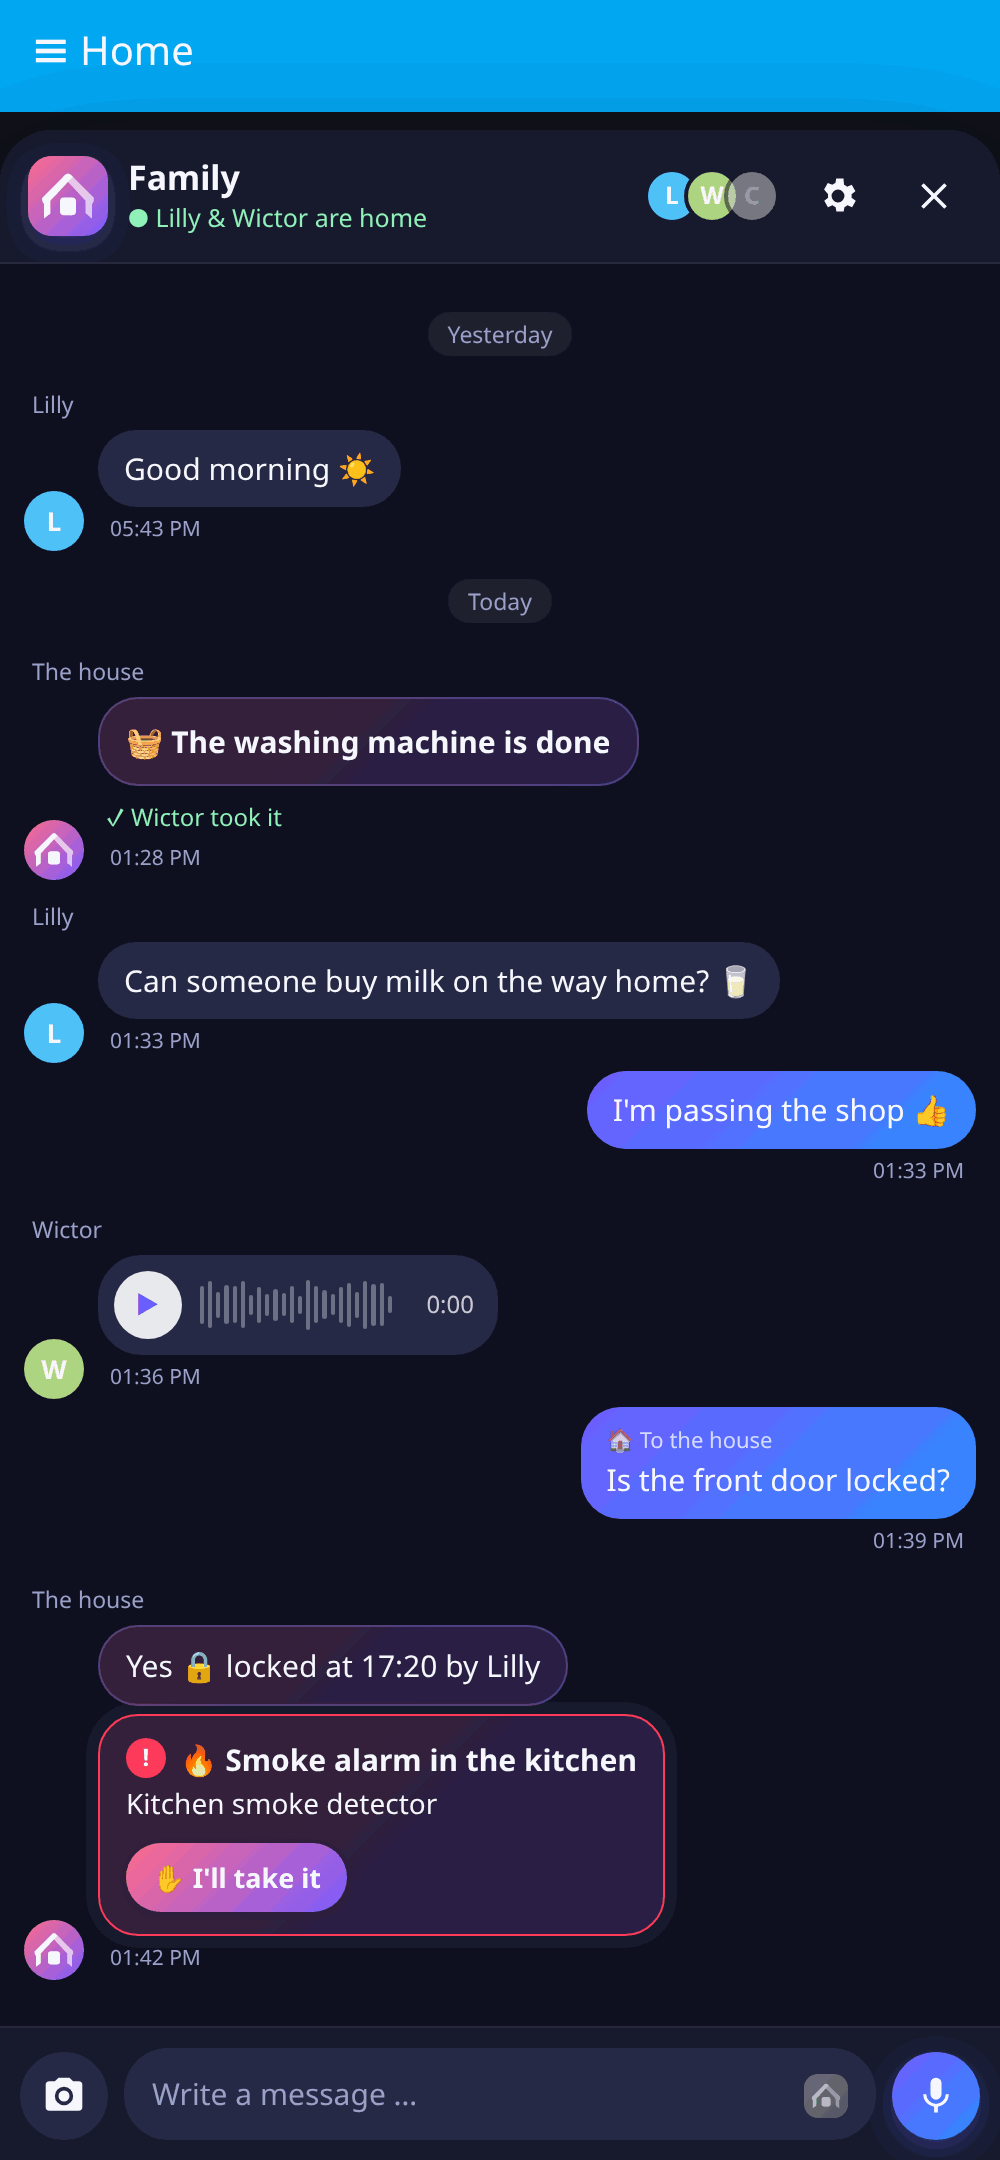
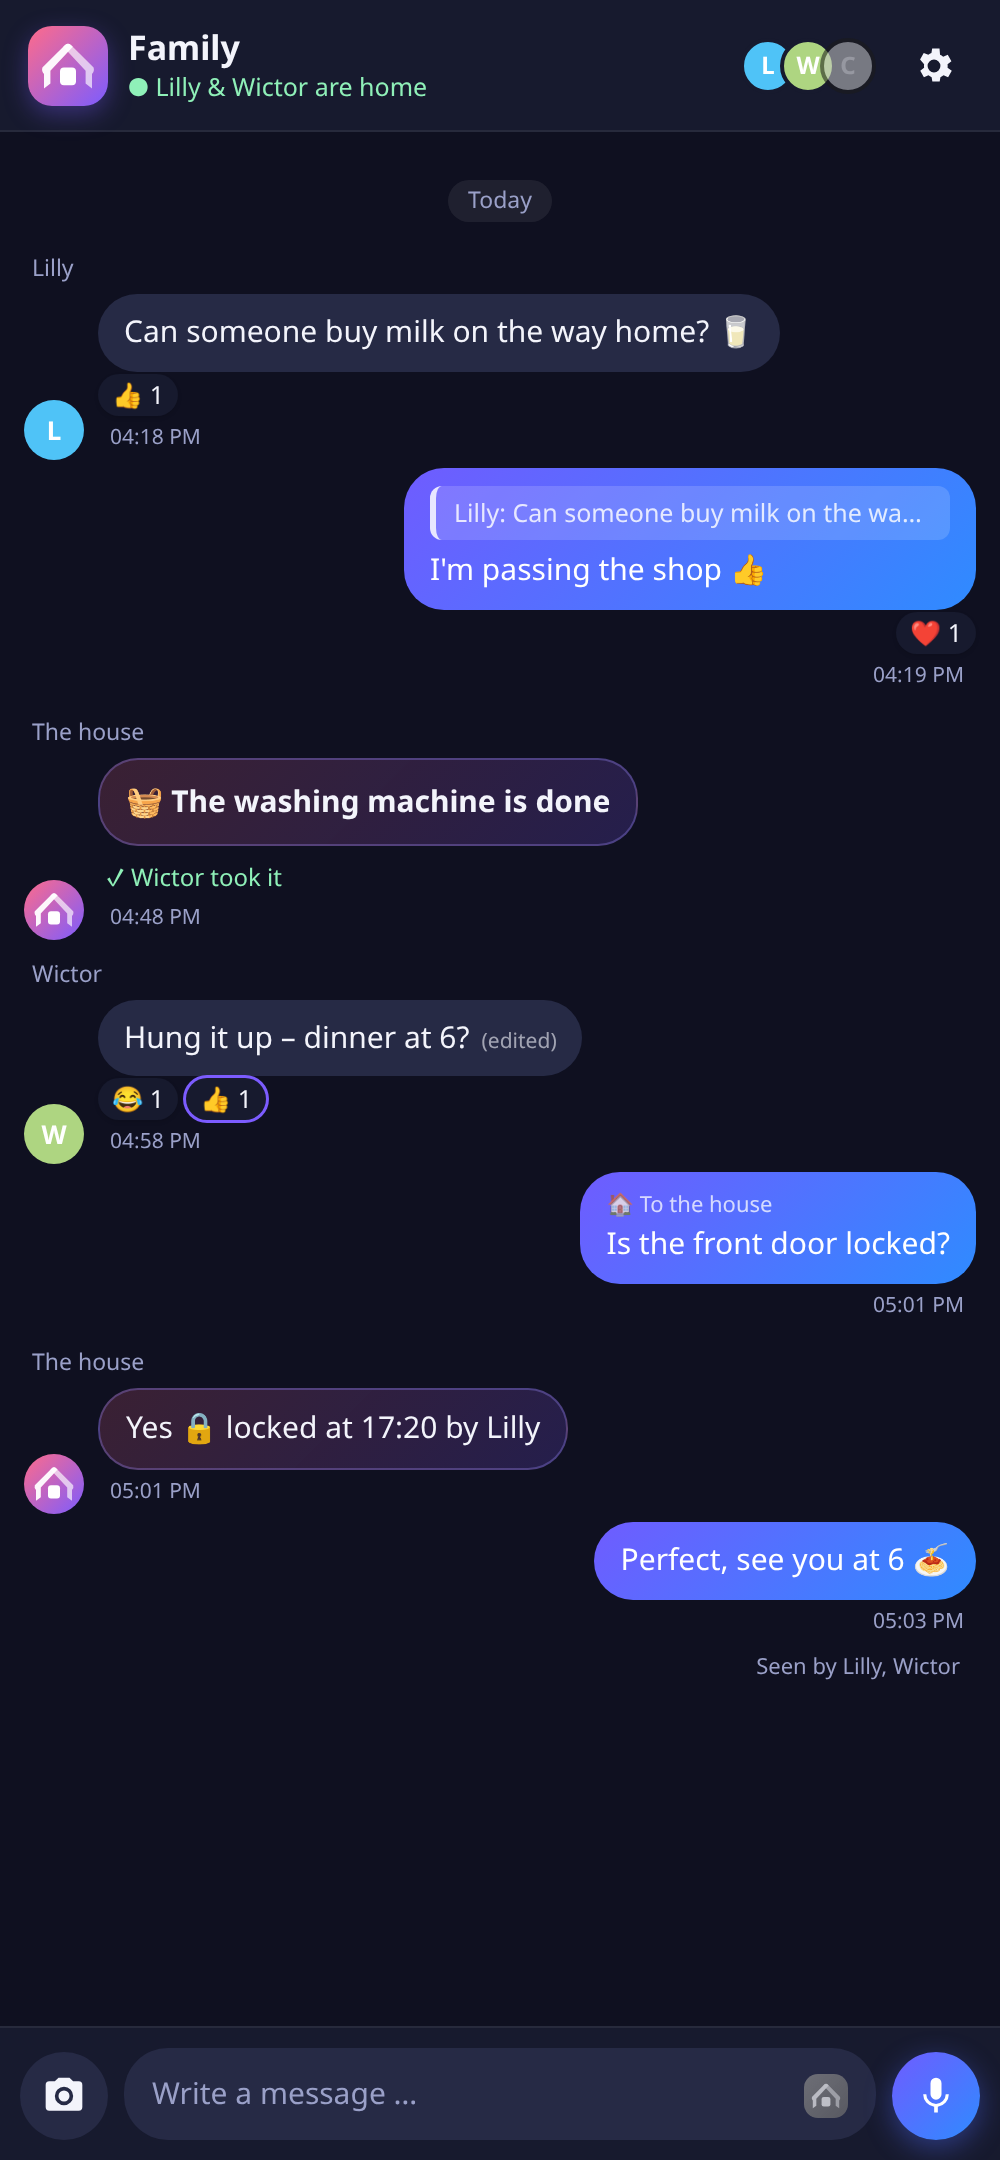
README: new features and pictures

diff --git a/README.md b/README.md
@@ -6,15 +6,17 @@
 
 ![House Chat](docs/showcase.png)
 
-<p align="center"><img src="docs/chat_light.png" width="250" alt="The chat"> <img src="docs/chat_dark.png" width="250" alt="Dark theme"> <img src="docs/settings.png" width="250" alt="Who gets what"></p>
+<p align="center"><img src="docs/chat_light.png" width="250" alt="The chat"> <img src="docs/chat_dark.png" width="250" alt="Dark theme"> <img src="docs/settings.png" width="250" alt="Who gets what"> <img src="docs/actions.png" width="250" alt="React, reply, edit, delete"></p>
 
 ## English
 
 - **A chat bubble on every page of Home Assistant**, like Messenger. A red number for new messages, and a little preview when someone writes. Drag it onto ✕ and it tucks away as a small tab at the edge – tap the tab, or it comes back by itself when somebody writes.
 - **Write with each other**: text, pictures and voice messages (use the keyboard's microphone to dictate). Everyone sees who wrote what.
+- **Tap a message** to react (👍 ❤ 😂 😮 😢 🙏), reply with a quote, edit your own (marked *edited*) or delete it. Under your last message you see who has **seen** it.
+- **Private where it should be**: a message to some of you is only seen by them, and a question to the house with its answer only by whoever asked. An account without a person or the app (a wall tablet) sees no messages. An admin can delete any message, or clear the whole chat under ⚙.
 - **Ask or control the house**: tap the house in the message field and write "Is the front door locked?" or "Turn off the lights in the living room" – the house answers in the chat.
 - **Or just say it**: with *To the house* on, the microphone works like a voice command – it listens, sends by itself when you stop talking, and the house answers. Nothing is sent if nobody spoke.
-- **When the app is closed** the message comes as a notification you can answer right in, or press *I'll take it*.
+- **When the app is closed** the message comes as a notification you can answer right in, or press *I'll take it*. Read it anywhere and it's gone from your phones too – and with the chat open you get no notification (urgent alarms still come).
 - **Quiet hours** per person – only urgent messages come through.
 - **Nothing to set up**: everyone with the Home Assistant app on their phone is in it – also without a person. Who is home comes from the persons.
 
@@ -74,9 +76,11 @@ Settings (⚙ in the chat) → **🛟 Help** to write what's wrong and attach
 
 - **En chat-boble på alle sider i Home Assistant**, ligesom Messenger. Et rødt tal for nye beskeder og en lille forsmag, når nogen skriver. Træk den ned på ✕, så gemmer den sig som en lille fane i kanten – tryk på fanen, eller den kommer selv, når nogen skriver.
 - **Skriv sammen**: tekst, billeder og lydbeskeder. Alle kan se, hvem der skriver.
+- **Tryk på en besked** for at reagere (👍 ❤ 😂 😮 😢 🙏), svare med citat, rette din egen (vises som *redigeret*) eller slette den. Under din seneste besked kan du se, hvem der har **set** den.
+- **Privat, hvor det skal være**: en besked til nogle få ses kun af dem, og et spørgsmål til huset og svaret kun af den, der spurgte. En konto uden person og uden app (fx en vægtablet) ser ingen beskeder. En admin kan slette enhver besked eller rydde hele chatten under ⚙.
 - **Spørg eller styr huset**: tryk på huset i beskedfeltet og skriv "Er hoveddøren låst?" eller "Sluk lyset i stuen" – huset svarer i chatten.
 - **Eller sig det bare**: med *Til huset* slået til virker mikrofonen som en stemmekommando – den lytter, sender selv, når du holder op med at tale, og huset svarer. Siger du ikke noget, sendes der intet.
-- **Når appen er lukket**, kommer beskeden som en notifikation, du kan svare direkte i eller trykke *Jeg tager den*.
+- **Når appen er lukket**, kommer beskeden som en notifikation, du kan svare direkte i eller trykke *Jeg tager den*. Læser du den et sted, forsvinder den også fra dine telefoner – og har du chatten åben, får du ingen notifikation (akutte alarmer kommer stadig).
 - **Stille timer** pr. person – kun det, der haster, kommer igennem.
 - **Intet at sætte op**: alle med Home Assistant-appen på telefonen er med – også uden en person.
 
